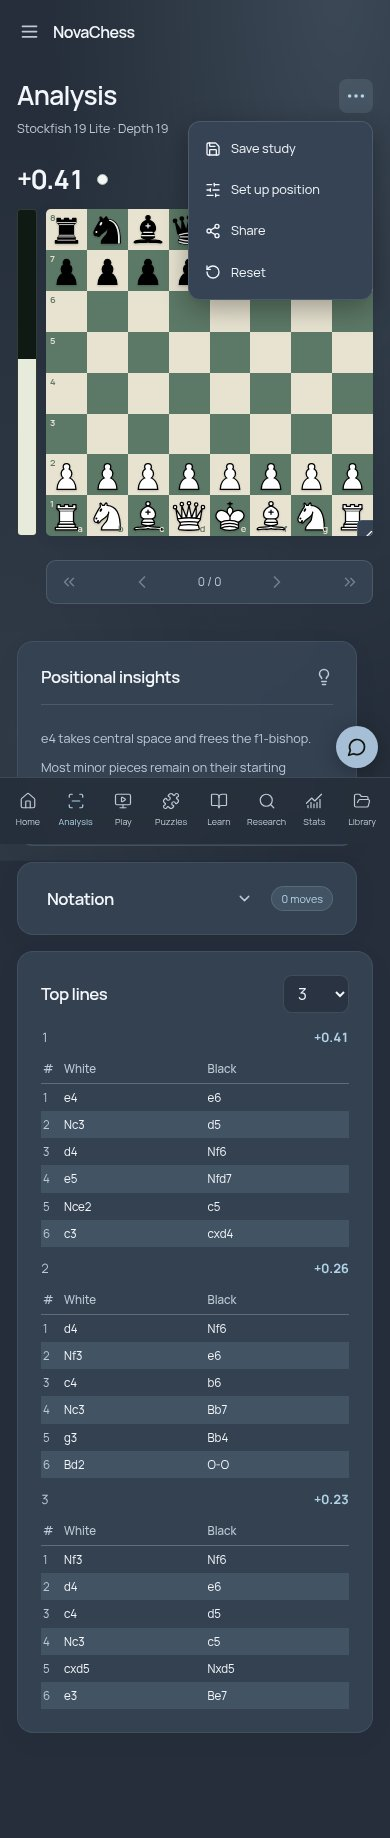
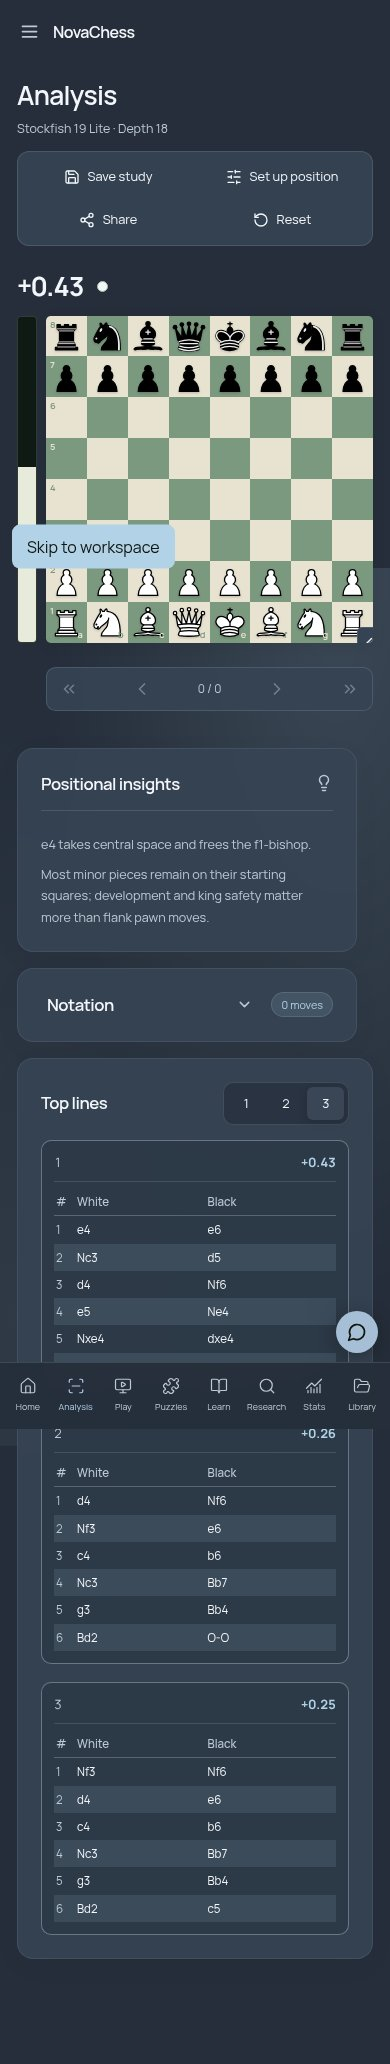
Expose Analysis tools and refine top-line layout

diff --git a/src/pages/Analysis.tsx b/src/pages/Analysis.tsx
@@ -18,7 +18,6 @@ import {
   Lightbulb,
   LocateFixed,
   Save,
-  Ellipsis,
   RotateCcw,
 } from "lucide-react";
 import { useApp } from "../lib/context";
@@ -88,19 +87,9 @@ export default function Analysis() {
     [name, setName] = useState(source?.title || "Analysis"),
     [sharing, setSharing] = useState(false),
     [saving, setSaving] = useState(false),
-    [toolsOpen, setToolsOpen] = useState(false),
     [notationOpen, setNotationOpen] = useState(false),
     [lineCount, setLineCount] = useState(3),
     [exporting, setExporting] = useState(false);
-  const toolsRef = useRef<HTMLDivElement>(null);
-  useEffect(() => {
-    if (!toolsOpen) return;
-    const close = (e: PointerEvent) => {
-      if (!toolsRef.current?.contains(e.target as Node)) setToolsOpen(false);
-    };
-    window.addEventListener("pointerdown", close);
-    return () => window.removeEventListener("pointerdown", close);
-  }, [toolsOpen]);
   const notationRef = useRef<HTMLDivElement>(null);
   const [followNotation, setFollowNotation] = useState(true);
   useLayoutEffect(() => {
@@ -218,74 +207,11 @@ export default function Analysis() {
         title="Analysis"
         subtitle={`Stockfish 19 Lite · Depth ${engine.lines[0]?.depth ?? 0}`}
       >
-        <div
-          className="analysis-tools"
-          ref={toolsRef}
-          onKeyDown={(e) => {
-            if (e.key === "Escape") {
-              setToolsOpen(false);
-              e.stopPropagation();
-              toolsRef.current
-                ?.querySelector<HTMLButtonElement>("button")
-                ?.focus();
-            }
-          }}
-        >
-          <IconButton
-            label="Analysis tools"
-            aria-expanded={toolsOpen}
-            aria-controls="analysis-tools-menu"
-            onClick={() => setToolsOpen((v) => !v)}
-          >
-            <Ellipsis size={22} />
-          </IconButton>
-          {toolsOpen && (
-            <div
-              id="analysis-tools-menu"
-              className="analysis-tools-menu"
-              role="group"
-              aria-label="Analysis actions"
-            >
-              <button
-                onClick={() => {
-                  setToolsOpen(false);
-                  setSaving(true);
-                }}
-              >
-                <Save size={16} />
-                Save study
-              </button>
-              <button
-                aria-label="Edit position"
-                onClick={() => {
-                  setToolsOpen(false);
-                  setEditing(true);
-                }}
-              >
-                <SlidersHorizontal size={16} />
-                Set up position
-              </button>
-              <button
-                aria-label="Share position"
-                onClick={() => {
-                  setToolsOpen(false);
-                  setSharing(true);
-                }}
-              >
-                <Share2 size={16} />
-                Share
-              </button>
-              <button
-                onClick={() => {
-                  setToolsOpen(false);
-                  reset(initialFen);
-                }}
-              >
-                <RotateCcw size={16} />
-                Reset
-              </button>
-            </div>
-          )}
+        <div className="analysis-tools-menu" role="group" aria-label="Analysis actions">
+          <button onClick={() => setSaving(true)}><Save size={16} />Save study</button>
+          <button aria-label="Edit position" onClick={() => setEditing(true)}><SlidersHorizontal size={16} />Set up position</button>
+          <button aria-label="Share position" onClick={() => setSharing(true)}><Share2 size={16} />Share</button>
+          <button onClick={() => reset(initialFen)}><RotateCcw size={16} />Reset</button>
         </div>
       </PageTitle>
       {engine.error && (
@@ -293,24 +219,24 @@ export default function Analysis() {
           {engine.error}
         </p>
       )}
+      <div className="board-topline">
+        <div className="analysis-position-meta">
+          <span
+            className="evaluation-readout"
+            aria-label={`Evaluation ${scoreLabel(engine.lines[0])}`}
+          >
+            {scoreLabel(engine.lines[0])}
+          </span>
+          <span
+            className={`analysis-turn-dot ${c.turn() === "w" ? "white-turn" : "black-turn"}`}
+            role="img"
+            aria-label={`${c.turn() === "w" ? "White" : "Black"} turn`}
+            title={`${c.turn() === "w" ? "White" : "Black"} turn`}
+          />
+        </div>
+      </div>
       <div className="chess-layout analysis-layout">
         <div className="board-column">
-          <div className="board-topline">
-            <div className="analysis-position-meta">
-              <span
-                className="evaluation-readout"
-                aria-label={`Evaluation ${scoreLabel(engine.lines[0])}`}
-              >
-                {scoreLabel(engine.lines[0])}
-              </span>
-              <span
-                className={`analysis-turn-dot ${c.turn() === "w" ? "white-turn" : "black-turn"}`}
-                role="img"
-                aria-label={`${c.turn() === "w" ? "White" : "Black"} turn`}
-                title={`${c.turn() === "w" ? "White" : "Black"} turn`}
-              />
-            </div>
-          </div>
           <div className="board-with-eval">
             <div
               className="eval-meter"
@@ -480,7 +406,7 @@ export default function Analysis() {
                 value={lineCount}
                 onChange={(e) => setLineCount(+e.target.value)}
               >
-                {[1, 2, 3, 4, 5].map((n) => (
+                {[1, 2, 3].map((n) => (
                   <option key={n} value={n}>
                     {n}
                   </option>

diff --git a/src/redesign.css b/src/redesign.css
@@ -3964,7 +3964,7 @@ select.theme-select {
   font-size: 1.4rem;
 }
 .analysis-navigation {
-  width: calc(100% - 29px);
+  width: var(--actual-board-width, calc(100% - 29px));
   margin-left: 29px;
 }
 .notation-toggle {
@@ -4156,10 +4156,16 @@ select.theme-select {
 .manual-boards .lesson-board-area { max-width:min(100%,var(--board-max)); }
 .manual-boards .lesson-workspace { max-height:none; }
 .board-resize-handle:focus-visible { outline: 2px solid var(--accent); outline-offset: -3px; }
-.analysis-tools { position:relative; }
-.analysis-tools-menu { position:absolute; right:0; top:calc(100% + 8px); z-index:25; width:185px; padding:6px; border:1px solid var(--border); border-radius:12px; background:var(--panel-solid); box-shadow:0 8px 28px #0005; }
-.analysis-tools-menu > button { display:flex; align-items:center; gap:10px; width:100%; padding:11px 10px; border-radius:7px; font-size:.8rem; text-align:left; }
+.analysis-tools-menu { display:flex; flex-wrap:wrap; gap:4px; padding:5px; border:1px solid var(--border); border-radius:12px; background:var(--panel); }
+.analysis-tools-menu > button { display:flex; align-items:center; justify-content:center; gap:8px; padding:10px 12px; border-radius:7px; font-size:.8rem; }
 .analysis-tools-menu > button:hover { background:var(--accent-soft); }
+.engine-lines { gap:18px; align-items:start; }
+.engine-line { padding:12px; border:1px solid color-mix(in srgb,var(--accent) 30%,var(--border)); border-radius:10px; background:color-mix(in srgb,var(--base) 45%,transparent); }
+.engine-line .pv-heading { padding-bottom:9px; margin-bottom:6px; border-bottom:1px solid var(--border); }
+.engine-top-lines .choice-select { min-width:126px; }
+@media(min-width:1001px) { .analysis-layout:has(.material-top) > .side-panels { padding-top:29px; } }
+@media(max-width:600px) { .analysis-tools-menu { width:100%; } .analysis-tools-menu > button { flex:1 1 40%; } }
+
 .puzzle-rating { display:flex; justify-content:center; align-items:center; width:100%; margin:0; text-align:center; }
 .segmented-control { display:flex; gap:3px; padding:4px; border:1px solid var(--border); border-radius:10px; min-height:43px; background:var(--input); }
 .segmented-control > button { flex:1; min-width:0; padding:7px 11px; border-radius:6px; font-size:.8rem; white-space:nowrap; }

diff --git a/tests/tools-research-selection.spec.ts b/tests/tools-research-selection.spec.ts
@@ -6,22 +6,10 @@ const square = (p: any, s: string) =>
     .getByRole("group", { name: "Chessboard", exact: true })
     .first()
     .getByRole("button", { name: new RegExp("^" + s + ",") });
-test("analysis exposes its four tools through one compact menu", async ({
+test("analysis keeps all four tools visible in one menu", async ({
   page,
 }) => {
   await page.goto("/#analysis");
-  await expect(
-    page.getByRole("button", { name: "Save study", exact: true }),
-  ).toHaveCount(0);
-  await expect(
-    page.getByRole("button", { name: "Edit position", exact: true }),
-  ).toHaveCount(0);
-  await expect(
-    page.getByRole("button", { name: "Reset", exact: true }),
-  ).toHaveCount(0);
-  await page
-    .getByRole("button", { name: "Analysis tools", exact: true })
-    .click();
   const menu = page.getByRole("group", {
     name: "Analysis actions",
     exact: true,
@@ -39,9 +27,6 @@ test("analysis exposes its four tools through one compact menu", async ({
     .click();
   await square(page, "e2").click();
   await square(page, "e4").click();
-  await page
-    .getByRole("button", { name: "Analysis tools", exact: true })
-    .click();
   await page.getByRole("button", { name: "Reset", exact: true }).click();
   await expect(square(page, "e2")).toHaveAttribute(
     "aria-label",
@@ -49,7 +34,7 @@ test("analysis exposes its four tools through one compact menu", async ({
   );
   await expect(
     page.getByRole("group", { name: "Analysis actions", exact: true }),
-  ).toHaveCount(0);
+  ).toBeVisible();
 });
 test("Research source/color toggles align with username and NovaChess explores real local games", async ({
   page,

diff --git a/tests/analysis-controls.spec.ts b/tests/analysis-controls.spec.ts
@@ -13,9 +13,9 @@ test("analysis starts with closed notation and three adjustable engine lines, na
   ).toHaveAttribute("aria-expanded", "false");
   await expect(page.getByLabel("Game notation", { exact: true })).toBeHidden();
   await expect(page.getByLabel("Study name", { exact: true })).toHaveCount(0);
-  await expect(page.getByLabel("Number of engine lines")).toHaveValue("3");
+  await expect(page.getByRole("group", { name: "Number of engine lines" }).getByRole("button", {name:"3", exact:true})).toHaveAttribute("aria-pressed", "true");
   await expect(page.locator(".engine-line")).toHaveCount(3);
-  await page.getByLabel("Number of engine lines").selectOption("2");
+  await page.getByRole("group", { name: "Number of engine lines" }).getByRole("button", {name:"2", exact:true}).click();
   await expect(page.locator(".engine-line")).toHaveCount(2);
   const board = (await page.locator(".analysis-layout .board").boundingBox())!,
     bar = (await page.locator(".analysis-navigation").boundingBox())!;
@@ -28,9 +28,6 @@ test("analysis starts with closed notation and three adjustable engine lines, na
   await expect(page.getByLabel("Game notation", { exact: true })).toContainText(
     "e4",
   );
-  await page
-    .getByRole("button", { name: "Analysis tools", exact: true })
-    .click();
   await page.getByRole("button", { name: "Save study", exact: true }).click();
   await page.getByLabel("Study name", { exact: true }).fill("My study");
   await page

diff --git a/tests/website.spec.ts b/tests/website.spec.ts
@@ -153,9 +153,6 @@ test("analysis runs real Stockfish, supports moves, branches, FEN, PGN and image
     .click();
   await uiMove(page, "d2d4");
   await expect(page.locator(".branch-list")).toContainText("Branch 1");
-  await page
-    .getByRole("button", { name: "Analysis tools", exact: true })
-    .click();
   await page.getByRole("button", { name: "Save study", exact: true }).click();
   await page
     .getByRole("dialog", { name: "Save study" })
@@ -165,9 +162,6 @@ test("analysis runs real Stockfish, supports moves, branches, FEN, PGN and image
   await expect(
     page.getByRole("button", { name: "Download PGN", exact: true }),
   ).toHaveCount(0);
-  await page
-    .getByRole("button", { name: "Analysis tools", exact: true })
-    .click();
   await page
     .getByRole("button", { name: "Share position", exact: true })
     .click();
@@ -195,9 +189,6 @@ test("position editor validates kings, applies a position and underpromotion is 
   page,
 }) => {
   await page.goto("/#analysis");
-  await page
-    .getByRole("button", { name: "Analysis tools", exact: true })
-    .click();
   await page
     .getByRole("button", { name: "Edit position", exact: true })
     .click();

diff --git a/src/components/Board.tsx b/src/components/Board.tsx
@@ -304,6 +304,8 @@ export function Board({
     const measure = () => {
       const rect = el.getBoundingClientRect();
       setMeasuredSize(Math.round(rect.width));
+      el.closest<HTMLElement>(".analysis-layout > .board-column")
+        ?.style.setProperty("--actual-board-width", `${rect.width}px`);
       // Leave room for material and replay controls; use document position so
       // scrolling never changes the board size while someone is using it.
       const top = rect.top + window.scrollY;

diff --git a/docs/VALIDATION.md b/docs/VALIDATION.md
@@ -1,5 +1,7 @@
 # Validation
 
+- Analysis toolbar update: all four labeled tools remain visible; top lines are limited to a 1/2/3 toggle and separated into bordered panels. Desktop positional insights align with the board, and replay width follows the actual board size when viewport limits shrink it. Desktop/mobile production checks verify all three line counts, accessibility and overflow.
+
 - Board/tools/choice refresh: manually resized boards persist per section, follow the global width setting, and cap their size to available viewport height. Analysis defaults smaller, has one four-action tools menu and separate White/Black tables for each principal line. Typed moves exist only in Blindfold text; returned/canceled pieces stay selected. Puzzle ratings are centered and completion uses only the outline. Research uses aligned source/color toggles and uniform-width frequency arrows with variable opacity and no board percentages. All actual two/three-option choices use toggle bars. Neutral slate defaults migrate previous defaults while preserving custom colors.
 - Home/Fog update: action arrows are removed; recent-game sliders preview actual recorded positions with result colors. Fog reveals attacked squares and friendly pieces, hides opponent move traces and coordinates on concealed squares, and uses checkmate/king-safety rules. Native-engine regression checks Fool’s Mate with both kings still on the board; desktop/mobile checks cover visibility, previews and short-screen fitting.
 - Latest analysis/play/chat update: notation starts collapsed, saving prompts for a name, three adjustable live engine lines replace study naming, navigation matches board width, and knight arrows bend at right angles. Held-piece cancellation works outside the board; invalid drops return silently. Game boards fill the available height beside narrow two-column notation with actions above it; typed game input outside Blindfold text, pause controls, the Game card and local-estimate text are removed. Repertoire remains in Learn. Chat includes reporting, author deletion and protected moderator deletion/bans/auditing with server-side spam limits. SQL tests reject self-promotion and unauthorized moderation. Production desktop/mobile Analysis, game, Chaos and draft-chat views passed accessibility/overflow checks. Chat is not connected to a live project yet.
